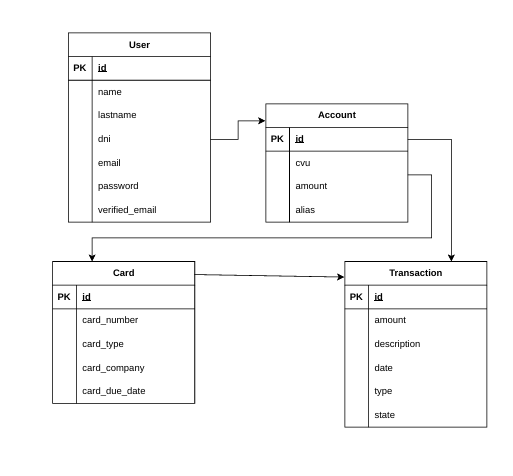
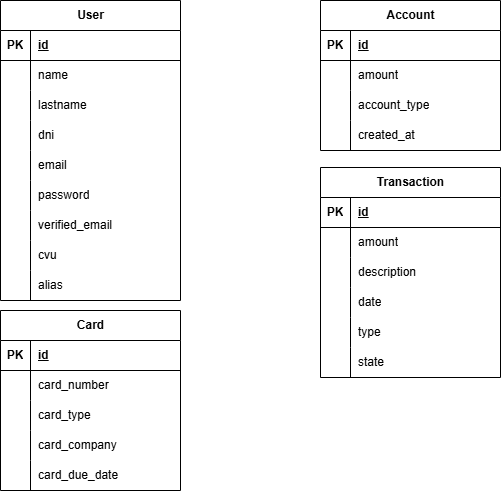
account´-api

diff --git a/Project/DMH/api-account/src/main/java/com/dmh/AccountDTO/AccountDTO.java b/Project/DMH/api-account/src/main/java/com/dmh/AccountDTO/AccountDTO.java
@@ -1,0 +1,77 @@
+package com.dmh.AccountDTO;
+
+import com.dmh.Entity.Account;
+import com.fasterxml.jackson.annotation.JsonInclude;
+import jakarta.validation.constraints.NotBlank;
+import java.time.ZonedDateTime;
+import java.util.UUID;
+
+@JsonInclude(JsonInclude.Include.NON_NULL)
+public class
+AccountDTO {
+
+    @NotBlank
+    private UUID id;
+
+    @NotBlank
+    private String amount;
+
+    @NotBlank
+    private ZonedDateTime created_at;
+
+    @NotBlank
+    private String account_type;
+
+    @NotBlank
+    private UUID user_id;
+
+    public AccountDTO(){}
+
+    public AccountDTO(UUID id , String amount, ZonedDateTime created_at,UUID user_id){
+        this.id=id;
+        this.amount=amount;
+        this.created_at=created_at;
+        this.user_id=user_id;
+    }
+
+    public UUID getId() {
+        return id;
+    }
+
+    public void setId(UUID id) {
+        this.id = id;
+    }
+
+    public String getAmount() {
+        return amount;
+    }
+
+    public void setAmount(String amount) {
+        this.amount = amount;
+    }
+
+    public ZonedDateTime getCreated_at() {
+        return created_at;
+    }
+
+    public void setCreated_at(ZonedDateTime created_at) {
+        this.created_at = created_at;
+    }
+
+    public String getAccount_type() {
+        return account_type;
+    }
+
+    public void setAccount_type(String account_type) {
+        this.account_type = account_type;
+    }
+
+    public UUID getUser_id() {
+        return user_id;
+    }
+
+    public void setUser_id(UUID user_id) {
+        this.user_id = user_id;
+    }
+
+}

diff --git a/Project/DMH/api-account/src/main/java/com/dmh/Entity/Account.java b/Project/DMH/api-account/src/main/java/com/dmh/Entity/Account.java
@@ -1,0 +1,69 @@
+package com.dmh.Entity;
+
+import jakarta.persistence.*;
+import java.time.ZonedDateTime;
+import java.util.UUID;
+
+@Entity
+@Table(name = "account")
+public class Account {
+
+    @Id
+    @GeneratedValue(strategy = GenerationType.UUID)
+    private UUID id;
+
+    @Column(name = "amount", nullable = false)
+    private String amount;
+
+    @Column(name = "created_at", nullable = false)
+    private ZonedDateTime created_at;
+
+    @Column(name="account_type",nullable = false)
+    private String account_type;
+
+    @OneToOne(targetEntity = User.class)
+    @PrimaryKeyJoinColumn(name = "id",referencedColumnName = "userId" )
+    private User user;
+
+    public  Account(){}
+
+    public Account(UUID id, String amount, ZonedDateTime created_at,String account_type){
+        this.id=id;
+        this.amount=amount;
+        this.created_at=created_at;
+        this.account_type=account_type;
+    }
+
+    public UUID getId() {
+        return id;
+    }
+
+    public void setId(UUID id) {
+        this.id = id;
+    }
+
+    public String getAmount() {
+        return amount;
+    }
+
+    public void setAmount(String amount) {
+        this.amount = amount;
+    }
+
+    public ZonedDateTime getCreated_at() {
+        return created_at;
+    }
+
+    public void setCreated_at(ZonedDateTime created_at) {
+        this.created_at = created_at;
+    }
+
+    public String getAccount_type() {
+        return account_type;
+    }
+
+    public void setAccount_type(String account_type) {
+        this.account_type = account_type;
+    }
+
+}

diff --git a/Project/DMH/api-account/src/main/java/com/dmh/AccountMapper/AccountMapper.java b/Project/DMH/api-account/src/main/java/com/dmh/AccountMapper/AccountMapper.java
@@ -1,0 +1,28 @@
+package com.dmh.AccountMapper;
+
+import com.dmh.AccountDTO.AccountDTO;
+import com.dmh.Entity.Account;
+import org.springframework.stereotype.Component;
+
+@Component(value = "AccountMapper")
+public class AccountMapper {
+
+        public AccountDTO AccounttoDTO(Account account){
+            AccountDTO accountDTO= new AccountDTO();
+            accountDTO.setAmount(account.getAmount());
+            accountDTO.setCreated_at(account.getCreated_at());
+            accountDTO.setAccount_type(account.getAccount_type());
+
+            return accountDTO;
+        }
+
+        public Account DTOtoAccount(AccountDTO accountDTO){
+            Account account = new Account();
+            account.setAmount(accountDTO.getAmount());
+            account.setCreated_at(accountDTO.getCreated_at());
+            account.setAccount_type(accountDTO.getAccount_type());
+
+            return account;
+        }
+
+}

diff --git a/Project/DMH/api-card/src/main/java/com/dmh/ApiCardApplication.java b/Project/DMH/api-card/src/main/java/com/dmh/ApiCardApplication.java
@@ -2,8 +2,10 @@ package com.dmh;
 
 import org.springframework.boot.SpringApplication;
 import org.springframework.boot.autoconfigure.SpringBootApplication;
+import org.springframework.cloud.client.discovery.EnableDiscoveryClient;
 
 @SpringBootApplication
+@EnableDiscoveryClient
 public class ApiCardApplication {
 
 	public static void main(String[] args) {

diff --git a/Project/DMH/api-account/src/main/java/com/dmh/AccountController/AccountController.java b/Project/DMH/api-account/src/main/java/com/dmh/AccountController/AccountController.java
@@ -1,0 +1,12 @@
+package com.dmh.AccountController;
+
+import org.springframework.validation.annotation.Validated;
+import org.springframework.web.bind.annotation.RequestMapping;
+import org.springframework.web.bind.annotation.RestController;
+
+@Validated
+@RestController
+@RequestMapping("/api/account")
+public class AccountController {
+
+}

diff --git a/Project/DMH/api-transaction/src/main/java/com/dmh/ApiTransactionApplication.java b/Project/DMH/api-transaction/src/main/java/com/dmh/ApiTransactionApplication.java
@@ -4,6 +4,7 @@ import org.springframework.boot.SpringApplication;
 import org.springframework.boot.autoconfigure.SpringBootApplication;
 
 @SpringBootApplication
+@EnableDiscoveryClient
 public class ApiTransactionApplication {
 
 	public static void main(String[] args) {

diff --git a/Project/DMH/api-account/src/main/java/com/dmh/AccountRepository/AccountRepository.java b/Project/DMH/api-account/src/main/java/com/dmh/AccountRepository/AccountRepository.java
@@ -1,0 +1,10 @@
+package com.dmh.AccountRepository;
+
+import com.dmh.Entity.Account;
+import org.springframework.data.repository.CrudRepository;
+import java.util.UUID;
+
+public interface AccountRepository extends CrudRepository<Account, UUID> {
+
+
+}

diff --git a/Project/DMH/api-user/src/main/java/com/dmh/UserRepository/UserRepository.java b/Project/DMH/api-user/src/main/java/com/dmh/UserRepository/UserRepository.java
@@ -2,7 +2,6 @@ package com.dmh.UserRepository;
 
 import com.dmh.Entity.User;
 import org.springframework.data.repository.CrudRepository;
-
 import java.util.Optional;
 import java.util.UUID;
 

diff --git a/Project/DMH/api-account/src/main/java/com/dmh/AccountService/AccountService.java b/Project/DMH/api-account/src/main/java/com/dmh/AccountService/AccountService.java
@@ -1,0 +1,10 @@
+package com.dmh.AccountService;
+
+import org.springframework.stereotype.Service;
+
+@Service
+public class AccountService {
+
+
+
+}
